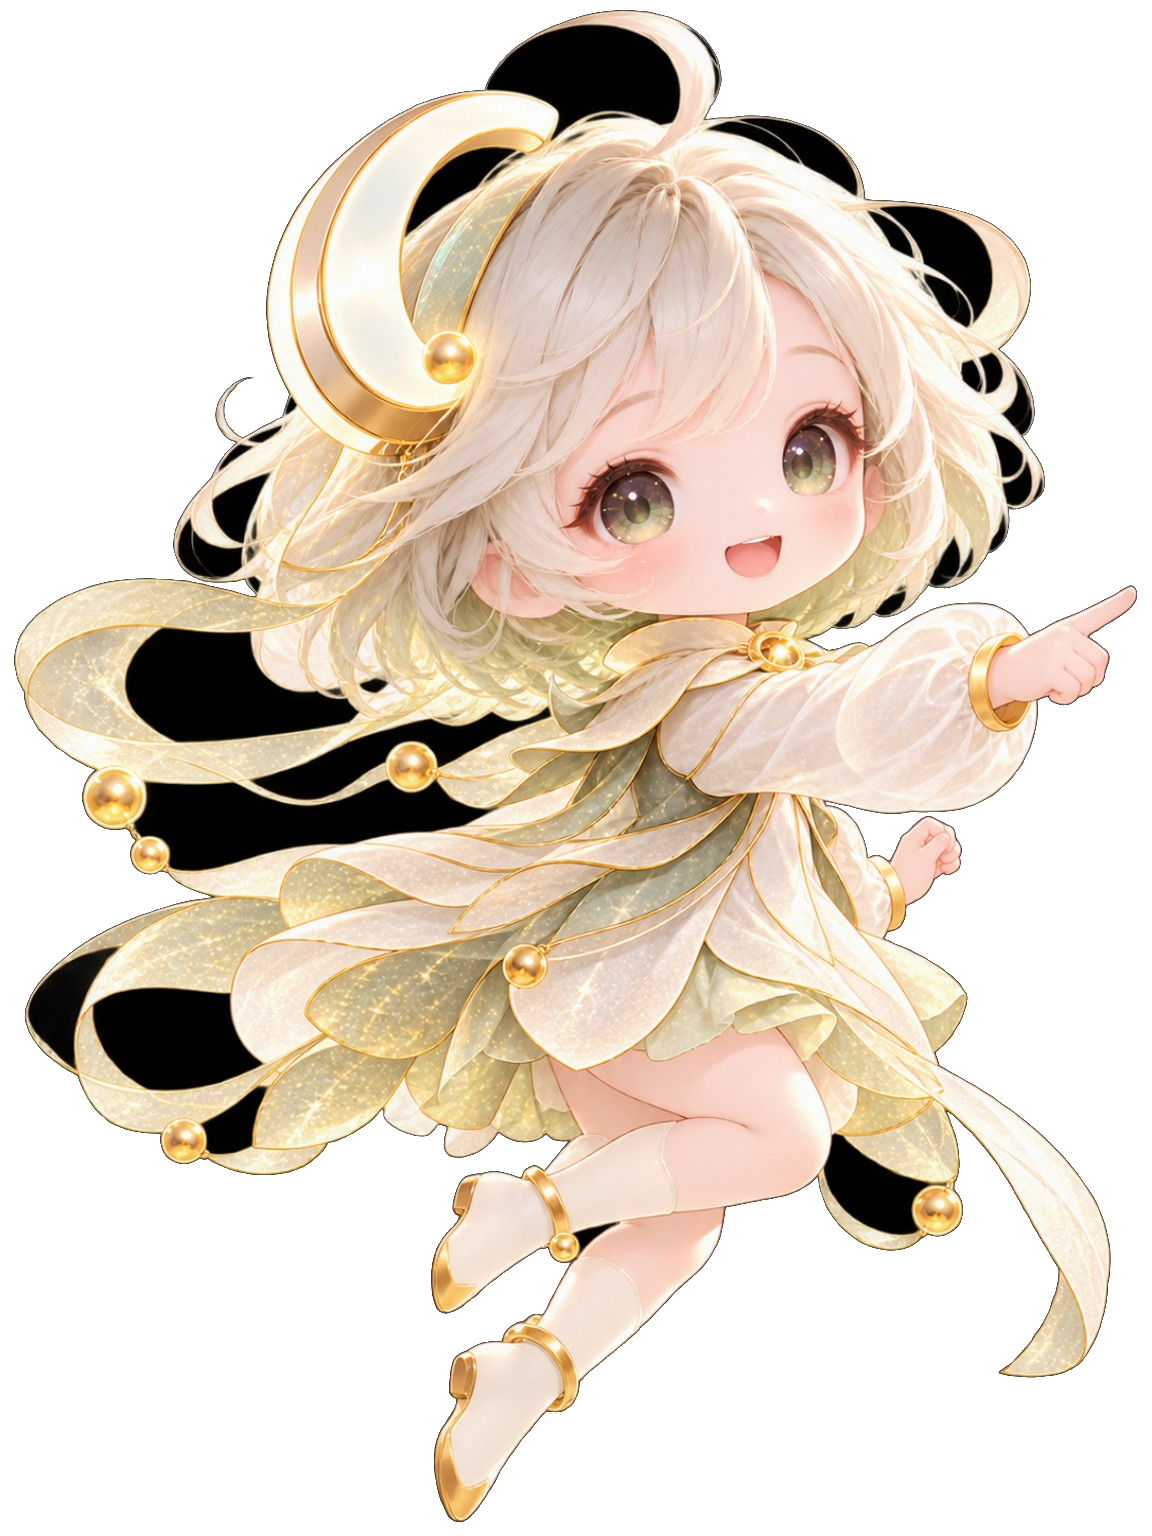
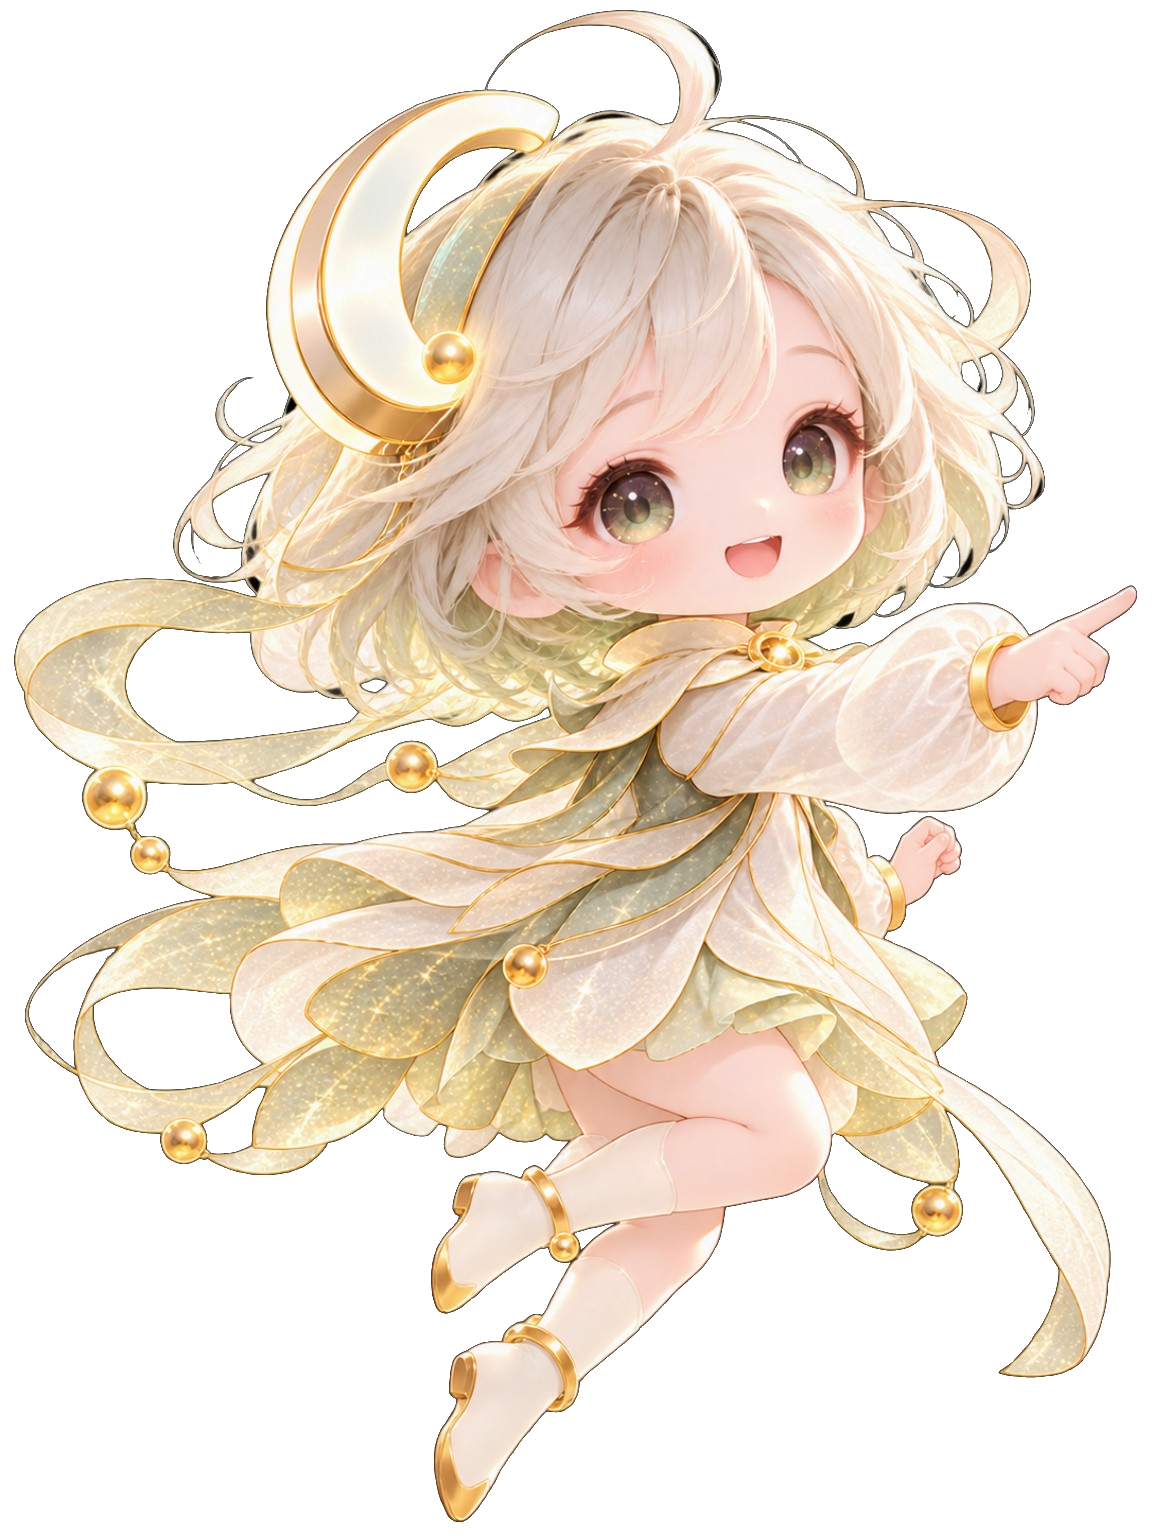
Remove enclosed CUI black matte and keep Pangu navigation clear

diff --git a/pangu-r1.css b/pangu-r1.css
@@ -13,7 +13,7 @@
 .pangu-r1-window{position:absolute;left:26%;top:8.5%;width:70.5%;height:85%;margin:0;padding:13px;box-sizing:border-box;border:2px solid #fffef6;border-radius:25px;background:#fffff68c;box-shadow:0 15px 35px #4a674329,0 0 16px #f2daa362,inset 0 0 15px #fff9;display:flex;align-items:center;justify-content:center;overflow:hidden}
 .pangu-r1-window img{display:block;width:100%;height:100%;object-fit:contain;border-radius:12px}
 .pangu-r1-window figcaption{position:absolute;bottom:2px;right:20px;color:#69796d;font:10px/1 system-ui,sans-serif;background:#fffc;pointer-events:none}
-.agent-wrap.in-workspace.in-project{visibility:visible;left:.7vw;right:auto;top:41vh;bottom:auto;width:25.2vw;transform:none;z-index:111;pointer-events:none}
+.agent-wrap.in-workspace.in-project{visibility:visible;left:.7vw;right:auto;top:47vh;bottom:auto;width:24vw;transform:none;z-index:111;pointer-events:none}
 .agent-wrap.in-project .agent-image{transform:none;animation:none;filter:drop-shadow(0 8px 12px #8a7c4e22)}
 .agent-wrap.in-project .bubble{display:none}
 @media(max-width:700px){

diff --git a/assets/pangu-r1/SOURCE.md b/assets/pangu-r1/SOURCE.md
@@ -2,7 +2,7 @@
 - product-source.jpg: Library 1000153637(8).png, original JPEG bytes,1536x1024, unchanged.
 - materials-source.jpg: Library 1000153636(6).png, original JPEG bytes,1536x1024, unchanged. Reserved, not displayed in R1.
 - cui-source.jpg: Library 1000154121.png, original JPEG bytes,1152x1536.
-- cui-pointing.png: deterministic alpha extraction from the above. RGB exactly preserved. Connected outer black pixels(max RGB<40) receive alpha0; one-pixel dark edge uses alpha ramp24..80. No generative image edit, no pose/face redesign. JPEG cannot recover original translucency mathematically; browser review is required.
+- cui-pointing.png: deterministic alpha extraction from the above. RGB exactly preserved. Connected black background regions(max RGB<40, area>150 pixels), including enclosed hair/ribbon gaps, receive alpha0; one-pixel dark edge uses alpha ramp24..80. No generative image edit, no pose/face redesign. JPEG cannot recover original translucency mathematically; browser review is required.
 - background: existing assets/workspace-v6/background.png, byte-identical to CUI_图二_纯背景_轻推进.png.
 - Visual reference: Library 盘古智绘夏日创作工作台.png. Not used as page background or clickable overlay.
 R1 navigation is static; screenshot is an image, not an online image-generation product.
